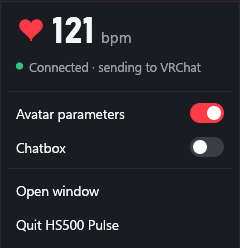
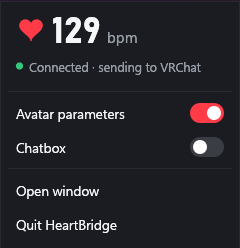
Rename the app to HeartBridge
HS500 is the strap's model; the app works with any standard BLE heart-rate strap. Executable, window, tray, settings file (heartbridge.json, with a one-time fallback to hs500-pulso.json) and test env vars (HEARTBRIDGE_*) all use the new name.

Changed region(s): [[0.35, 0.0565, 0.5833, 0.1976], [0.2042, 0.875, 0.4958, 0.9597]]

diff --git a/src/app.rs b/src/app.rs
@@ -22,7 +22,7 @@ pub const COMPACT_SIZE: [f32; 2] = [300.0, 150.0];
 const POPUP_W: f32 = 240.0;
 const DEBUG_SIZE: [f32; 2] = [560.0, 620.0];
 const TITLE_H: f32 = 44.0;
-const POPUP_TITLE: &str = "HS500 Pulse tray";
+const POPUP_TITLE: &str = "HeartBridge tray";
 
 const BEAT_ANIM: Duration = Duration::from_millis(260);
 const FRAME_33: Duration = Duration::from_millis(33);
@@ -48,7 +48,7 @@ impl Popup {
     }
 }
 
-pub struct PulsoApp {
+pub struct HeartBridgeApp {
     shared: Shared,
     cfg: Config,
     saved: Config,
@@ -63,11 +63,11 @@ pub struct PulsoApp {
     quitting: bool,
 }
 
-impl PulsoApp {
+impl HeartBridgeApp {
     pub fn new(shared: Shared, tray: Option<Tray>) -> Self {
         let cfg = shared.config();
         // Testing aids: open the popup or the debug window at startup.
-        let popup = std::env::var_os("HS500_OPEN_POPUP").map(|_| Popup::new(pos2(1100.0, 700.0)));
+        let popup = std::env::var_os("HEARTBRIDGE_OPEN_POPUP").map(|_| Popup::new(pos2(1100.0, 700.0)));
         Self {
             shared,
             saved: cfg.clone(),
@@ -76,7 +76,7 @@ impl PulsoApp {
             window_visible: true,
             popup,
             popup_h: 220.0,
-            debug_open: std::env::var_os("HS500_OPEN_DEBUG").is_some(),
+            debug_open: std::env::var_os("HEARTBRIDGE_OPEN_DEBUG").is_some(),
             chart_h: 72.0,
             quitting: false,
         }
@@ -185,7 +185,7 @@ impl View {
     }
 }
 
-impl eframe::App for PulsoApp {
+impl eframe::App for HeartBridgeApp {
     fn clear_color(&self, _visuals: &egui::Visuals) -> [f32; 4] {
         pal::GROUND.to_normalized_gamma_f32()
     }
@@ -279,7 +279,7 @@ enum Glyph {
     Debug,
 }
 
-impl PulsoApp {
+impl HeartBridgeApp {
     fn title_bar(&mut self, ui: &mut Ui) {
         let (rect, resp) =
             ui.allocate_exact_size(vec2(ui.available_width(), TITLE_H), Sense::click_and_drag());
@@ -291,7 +291,7 @@ impl PulsoApp {
         p.text(
             pos2(rect.left() + 46.0, rect.center().y),
             egui::Align2::LEFT_CENTER,
-            "HS500 Pulse",
+            "HeartBridge",
             theme::ui_strong(14.0),
             pal::TEXT_2,
         );
@@ -383,7 +383,7 @@ fn card(ui: &mut Ui, add: impl FnOnce(&mut Ui)) {
         });
 }
 
-impl PulsoApp {
+impl HeartBridgeApp {
     /// Two columns, no scrolling: pulse and status on the left, VRChat and
     /// settings on the right. The history chart grows or shrinks so both
     /// columns end at the same line.
@@ -683,7 +683,7 @@ impl PulsoApp {
                 if menu_item(ui, "Open window").clicked() {
                     open_window = true;
                 }
-                if menu_item(ui, "Quit HS500 Pulse").clicked() {
+                if menu_item(ui, "Quit HeartBridge").clicked() {
                     quit = true;
                 }
             });
@@ -731,7 +731,7 @@ impl PulsoApp {
     /// Debug window: raw state of the strap and OSC, and the event log.
     fn show_debug(&mut self, ctx: &egui::Context) {
         let builder = egui::ViewportBuilder::default()
-            .with_title("HS500 Pulse debug")
+            .with_title("HeartBridge debug")
             .with_icon(std::sync::Arc::new(egui::IconData {
                 rgba: crate::icon::heart_rgba(32, [0xFF, 0x3B, 0x47]),
                 width: 32,

diff --git a/src/main.rs b/src/main.rs
@@ -1,4 +1,4 @@
-//! hs500-pulso: reads a GEOID HS500 strap (or any standard BLE heart-rate
+//! HeartBridge: reads a GEOID HS500 strap (or any standard BLE heart-rate
 //! sensor) and sends the pulse to VRChat over OSC.
 //!
 //! The window (eframe/egui) and the tray icon run on the main thread;
@@ -33,7 +33,7 @@ fn main() -> eframe::Result<()> {
     };
 
     let mut viewport = egui::ViewportBuilder::default()
-        .with_title("HS500 Pulse")
+        .with_title("HeartBridge")
         .with_icon(window_icon)
         .with_decorations(false)
         .with_resizable(false)
@@ -49,14 +49,14 @@ fn main() -> eframe::Result<()> {
     };
 
     eframe::run_native(
-        "HS500 Pulse",
+        "HeartBridge",
         options,
         Box::new(move |cc| {
             theme::install(&cc.egui_ctx);
             let shared = Shared::new(config, cc.egui_ctx.clone());
             spawn_background(shared.clone());
             let tray = tray::Tray::new(&cc.egui_ctx);
-            Ok(Box::new(app::PulsoApp::new(shared, tray)))
+            Ok(Box::new(app::HeartBridgeApp::new(shared, tray)))
         }),
     )
 }

diff --git a/src/config.rs b/src/config.rs
@@ -1,4 +1,4 @@
-//! Settings persisted to `hs500-pulso.json` next to the executable.
+//! Settings persisted to `heartbridge.json` next to the executable.
 
 use serde::{Deserialize, Serialize};
 use std::path::PathBuf;
@@ -53,16 +53,22 @@ impl Default for Config {
 }
 
 impl Config {
-    fn path() -> PathBuf {
+    fn dir() -> PathBuf {
         std::env::current_exe()
             .ok()
             .and_then(|p| p.parent().map(|d| d.to_path_buf()))
             .unwrap_or_else(|| PathBuf::from("."))
-            .join("hs500-pulso.json")
     }
 
+    fn path() -> PathBuf {
+        Self::dir().join("heartbridge.json")
+    }
+
+    /// Reads `heartbridge.json`; if it doesn't exist yet, falls back to the
+    /// file from before the rename (`hs500-pulso.json`) so settings carry over.
     pub fn load() -> Self {
         std::fs::read_to_string(Self::path())
+            .or_else(|_| std::fs::read_to_string(Self::dir().join("hs500-pulso.json")))
             .ok()
             .and_then(|s| serde_json::from_str(&s).ok())
             .unwrap_or_default()

diff --git a/src/tray.rs b/src/tray.rs
@@ -51,7 +51,7 @@ impl Tray {
         }));
 
         let icon = TrayIconBuilder::new()
-            .with_tooltip("HS500 Pulse")
+            .with_tooltip("HeartBridge")
             .with_icon(idle_icon()?)
             .with_menu_on_left_click(false)
             .with_menu_on_right_click(false)
@@ -72,8 +72,8 @@ impl Tray {
         };
         let _ = self.icon.set_icon(icon);
         let tip = match bpm {
-            Some(b) => format!("HS500 Pulse · {b} bpm · {status}"),
-            None => format!("HS500 Pulse · {status}"),
+            Some(b) => format!("HeartBridge · {b} bpm · {status}"),
+            None => format!("HeartBridge · {status}"),
         };
         let _ = self.icon.set_tooltip(Some(tip));
     }

diff --git a/src/ble.rs b/src/ble.rs
@@ -19,7 +19,7 @@ const BATTERY_LEVEL: Uuid = uuid_from_u16(0x2A19);
 const SILENCE_TIMEOUT: Duration = Duration::from_secs(8);
 
 pub async fn run(shared: Shared) {
-    if std::env::var_os("HS500_DEMO").is_some() {
+    if std::env::var_os("HEARTBRIDGE_DEMO").is_some() {
         return demo(shared).await;
     }
     loop {
@@ -55,7 +55,7 @@ pub async fn run(shared: Shared) {
     }
 }
 
-/// Simulated pulse (HS500_DEMO=1), for testing the window and OSC without the strap.
+/// Simulated pulse (HEARTBRIDGE_DEMO=1), for testing the window and OSC without the strap.
 async fn demo(shared: Shared) {
     set_conn(&shared, Conn::Connected("Demo (simulated pulse)".into()));
     shared.state().battery = Some(87);

diff --git a/.impeccable/surfaces/src-app-rs.md b/.impeccable/surfaces/src-app-rs.md
@@ -6,7 +6,7 @@ related_targets: []
 ---
 
 ## Scope
-The HS500 Pulse main window (native egui) with its merged title bar, its compact mode, and the tray icon with its popup. Mode: Operate. UI in English.
+The HeartBridge main window (native egui) with its merged title bar, its compact mode, and the tray icon with its popup. Mode: Operate. UI in English.
 
 ## Task
 - Read the live pulse at a glance (desktop, VR overlay, OBS).
@@ -19,6 +19,6 @@ The HS500 Pulse main window (native egui) with its merged title bar, its compact
 THESIS: The category standard, executed at its best: a dark heart-rate app with rounded cards and a red heart. It refuses the generic grey panel with stock controls; every control is drawn in the app's palette.
 OWN-WORLD: Ground #0E0F12, cards #1A1C21 at 16 px radius with a 1 px #24272E hairline, text #F5F6F8, secondary #9AA0A8, single accent #FF3B47 (heart, toggles, history line), connected #34C77B, warning #F5A524. Zone colours only on the zone dot. Numbers in Bahnschrift 700, UI in Segoe UI Variable.
 STORY: The player looks and in one second knows their pulse, that the strap is connected, and that VRChat is receiving; they turn on the chatbox with one click and edit the text with a live preview.
-FIRST VIEWPORT: Top card: a drawn red heart (52 px) that beats with the pulse, the BPM at 88 px with "bpm" beside it, zone pill on the right, two-minute history (fixed 40–200 scale) with max/min underneath. Above everything, a 44 px title bar on the ground colour: small heart and "HS500 Pulse", then compact, minimize and close glyphs (46 px each, close hover #C42B1C). Two columns at 800×700 with no scrolling: on the left the pulse card and below it the status card (Strap, Battery, VRChat with coloured dots); on the right the "Send to VRChat" card (two switches, template field, preview) and the "Settings" card. Title-bar glyphs from the right: close (to tray), minimize, compact, debug. Tray: a 32 px red square with the BPM in pixel digits (grey heart when idle); right click opens a 240 px card-coloured popup with heart, BPM, status line, the two switches, "Open window" and "Quit HS500 Pulse", shown at once with no fade.
+FIRST VIEWPORT: Top card: a drawn red heart (52 px) that beats with the pulse, the BPM at 88 px with "bpm" beside it, zone pill on the right, two-minute history (fixed 40–200 scale) with max/min underneath. Above everything, a 44 px title bar on the ground colour: small heart and "HeartBridge", then compact, minimize and close glyphs (46 px each, close hover #C42B1C). Two columns at 800×700 with no scrolling: on the left the pulse card and below it the status card (Strap, Battery, VRChat with coloured dots); on the right the "Send to VRChat" card (two switches, template field, preview) and the "Settings" card. Title-bar glyphs from the right: close (to tray), minimize, compact, debug. Tray: a 32 px red square with the BPM in pixel digits (grey heart when idle); right click opens a 240 px card-coloured popup with heart, BPM, status line, the two switches, "Open window" and "Quit HeartBridge", shown at once with no fade.
 FORM: canon (the user's choice in the direction round); seed: d6de5dbad9cd6660
 FINISH: unreviewed and undocumented is unfinished; this build ends with the finish review, the verdict, DESIGN.md, and every shipping raster carrying its provenance

diff --git a/DESIGN.md b/DESIGN.md
@@ -1,5 +1,5 @@
 ---
-name: HS500 Pulse
+name: HeartBridge
 description: A native Windows heart-rate bridge to VRChat; a dark heart-rate app with rounded cards and a red heart, read at a glance on the desktop, in a VR overlay and on stream.
 colors:
   accent: "#FF3B47"
@@ -160,13 +160,13 @@ components:
     height: "330px"
 ---
 
-# Design System: HS500 Pulse
+# Design System: HeartBridge
 
 ## Overview
 
 **Creative North Star: "The Bedside Monitor, Finished"**
 
-HS500 Pulse is the category standard for heart-rate apps executed with full finish: a near-black ground, rounded charcoal cards, one red heart, and a number large enough to read from across a dim room, through a VR overlay or in an OBS capture. Everything is native egui, painted in the app's own palette; no control is left in egui's stock grey. The window has no system frame; its own title bar sits on the ground colour so the whole window reads as one surface.
+HeartBridge is the category standard for heart-rate apps executed with full finish: a near-black ground, rounded charcoal cards, one red heart, and a number large enough to read from across a dim room, through a VR overlay or in an OBS capture. Everything is native egui, painted in the app's own palette; no control is left in egui's stock grey. The window has no system frame; its own title bar sits on the ground colour so the whole window reads as one surface.
 
 The hierarchy is fixed by the job: the pulse first (drawn heart, Bahnschrift numeral, zone pill, two-minute trace), then whether the strap is connected and VRChat is receiving (status rows with coloured dots), then the two send switches, then the settings, all visible at once in two columns with no scrolling. Density is calm; cards are separated by tone and a hairline, never by shadow. Motion is spent only on the heartbeat and on state changes, and the app redraws only when it has to, because it runs beside VRChat under heavy GPU load.
 
@@ -284,7 +284,7 @@ The heart is the signature form: a parametric curve (16 sin³t; 13 cos t - 5 cos
 - 44 x 26 capsule; track blends Switch Off to Pulse Red as it turns on, a 20 px white knob slides with egui's responsive animation; hover brightens the track 12%; focus draws a 2 px Soft Pulse ring 3 px outside.
 
 ### Navigation
-- **Title bar:** 44 px on Night Ground; an 18 px live heart at 28 px from the left, "HS500 Pulse" at 46 px; the bar drags the window.
+- **Title bar:** 44 px on Night Ground; an 18 px live heart at 28 px from the left, "HeartBridge" at 46 px; the bar drags the window.
 - **Settings card:** 17 px semibold title; OSC host and port on one row; max heart rate and strap name side by side; then the always-on-top and heartbeat switches.
 - **Tray popup:** 240 px wide, square, card colour with a hairline; 36 px numeral with a 24 px heart, a 12.5 px status line, two 30 px menu rows with 20 px switches, and two 30 px left-aligned menu items with a pill-colour hover. It is created hidden, sized to its content, and shown with the Windows open animation turned off.
 - **Debug window:** native frame, 560 x 620, ground colour; a two-column grid of raw state in 12.5 px monospace and the event log in a field-coloured box with Copy log and Clear.

diff --git a/decisions.md b/decisions.md
@@ -54,7 +54,7 @@
 
 ## 2026-11-18 · Closing the window always hides it to the tray
 - Decided by: the user ("when i click X should go to tray not close the app")
-- Why: closing during play would otherwise stop sending to VRChat; "Quit HS500 Pulse" in the popup is the only way out, so the "Close to tray" setting was removed.
+- Why: closing during play would otherwise stop sending to VRChat; "Quit HeartBridge" in the popup is the only way out, so the "Close to tray" setting was removed.
 - Rejected: close exits the app.
 - Rests on: the principle that the app never gets in VRChat's way.
 
@@ -87,3 +87,9 @@
 - Why: the raw packet bytes, parsed fields, OSC state and an event log make a strap or VRChat problem diagnosable without a console.
 - Rejected: a text button inside a card (competes with the pulse).
 - Rests on: the user's request of 2026-11-18.
+
+## 2026-11-18 · The app is called HeartBridge
+- Decided by: the user ("use heartbridge")
+- Why: HS500 is the strap's model; the app works with any standard BLE heart-rate strap, so the name describes what it does instead of the device.
+- Rejected: HS500 Pulse (tied to one device), Pulse OSC, Beatlink, HR Relay.
+- Rests on: the user's request of 2026-11-18. Settings move to heartbridge.json; an existing hs500-pulso.json is read once as a fallback.

diff --git a/README.md b/README.md
@@ -1,4 +1,4 @@
-# HS500 Pulse
+# HeartBridge
 
 Sends your heart rate from a Bluetooth chest strap to VRChat over OSC: to the chatbox, to avatar parameters, or both. Built for the GEOID HS500, and works with any strap that uses the standard Bluetooth Heart Rate service.
 
@@ -45,7 +45,7 @@ Requires Windows 10/11 with Bluetooth LE and a recent stable Rust toolchain.
 
 ## Settings
 
-Settings are saved to `hs500-pulso.json` next to the executable. They cover:
+Settings are saved to `heartbridge.json` next to the executable. They cover:
 
 - the OSC host and port (default `127.0.0.1:9000`)
 - your max heart rate, which sets the zones
@@ -53,4 +53,4 @@ Settings are saved to `hs500-pulso.json` next to the executable. They cover:
 - always on top
 - the heartbeat animation
 
-For testing without a strap, set `HS500_DEMO=1` to get a simulated pulse.
+For testing without a strap, set `HEARTBRIDGE_DEMO=1` to get a simulated pulse.

diff --git a/context-heartbridge.md b/context-heartbridge.md
@@ -1,4 +1,4 @@
-# HS500 Pulso → VRChat
+# HeartBridge → VRChat
 
 ## Users
 - A VRChat player wearing the GEOID HS500 chest strap during a session, often with the headset on. The app is set up before entering VR; mid-session the window is glanced at on the desktop or through an overlay.
@@ -8,7 +8,7 @@
 ## Product
 - A Rust app for Windows. It connects to the strap over Bluetooth LE using the standard Heart Rate service (0x180D / 0x2A37) and sends OSC over UDP to VRChat at 127.0.0.1:9000.
 - Frontend: a native eframe/egui window that redraws only on new data. It is captured as a window by OBS and VR overlays.
-- Settings persist in `hs500-pulso.json` next to the executable.
+- Settings persist in `heartbridge.json` next to the executable.
 
 ## Constraints
 - VRChat throttles the chatbox, so messages go out at most once every 2 s.

diff --git a/PRODUCT.md b/PRODUCT.md
@@ -29,7 +29,7 @@ A single native executable, light enough to leave running alongside VRChat, that
 ## Capabilities and Constraints
 - Reads BPM, skin contact, RR intervals and battery (services 0x180D / 0x2A37, 0x180F / 0x2A19).
 - Sends `/chatbox/input` with an editable template, plus avatar parameters: HR, onesHR, tensHR, hundredsHR, floatHR, isHRConnected, isHRActive, isHRBeat.
-- Settings persist in `hs500-pulso.json` next to the executable.
+- Settings persist in `heartbridge.json` next to the executable.
 - UI in English.
 - Borderless 800×700 window with its own title bar (drag, debug, compact, minimize, close), two columns, no scrolling.
 - A debug window shows the raw strap and OSC state and an event log that can be copied.
